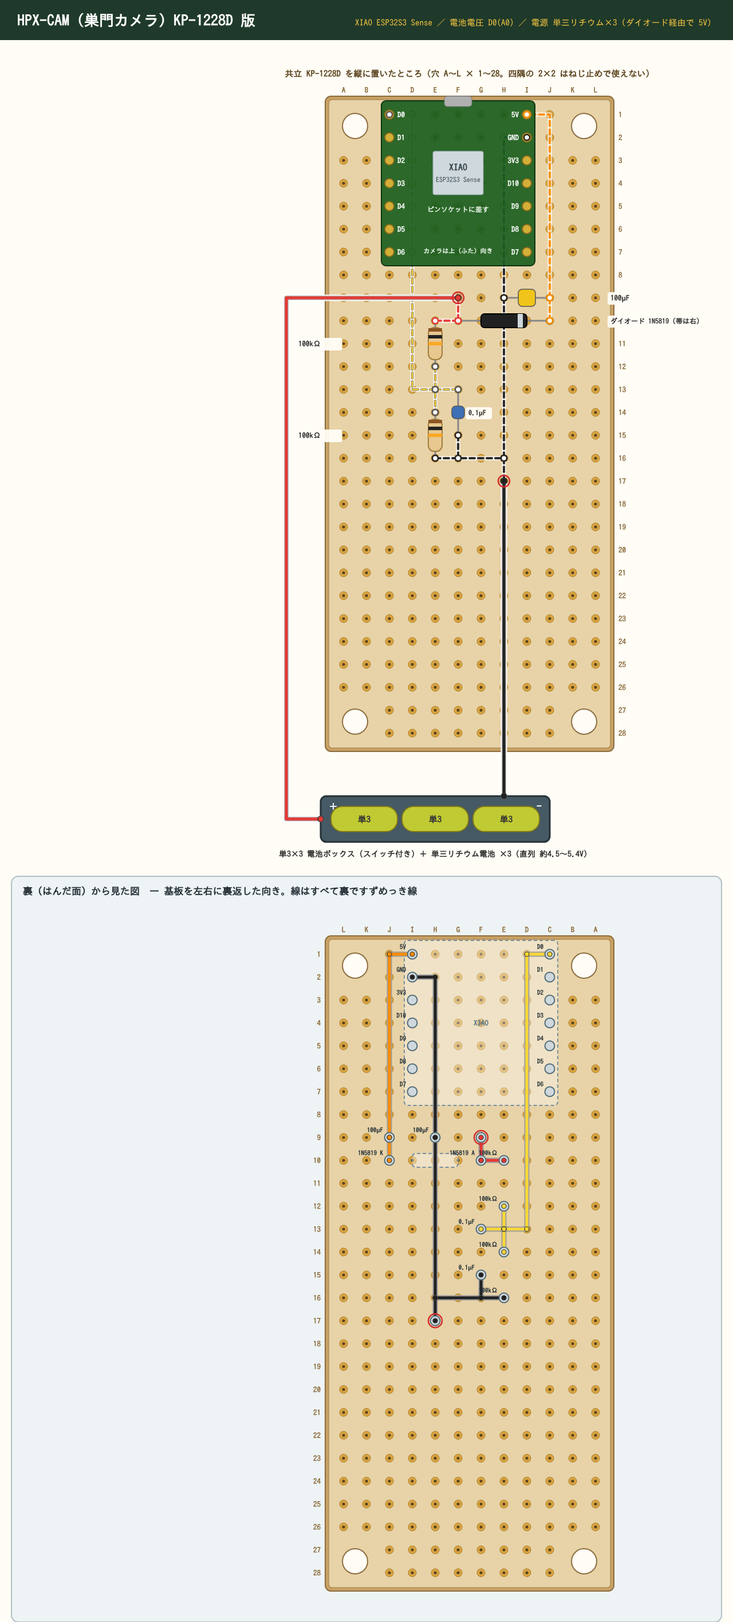
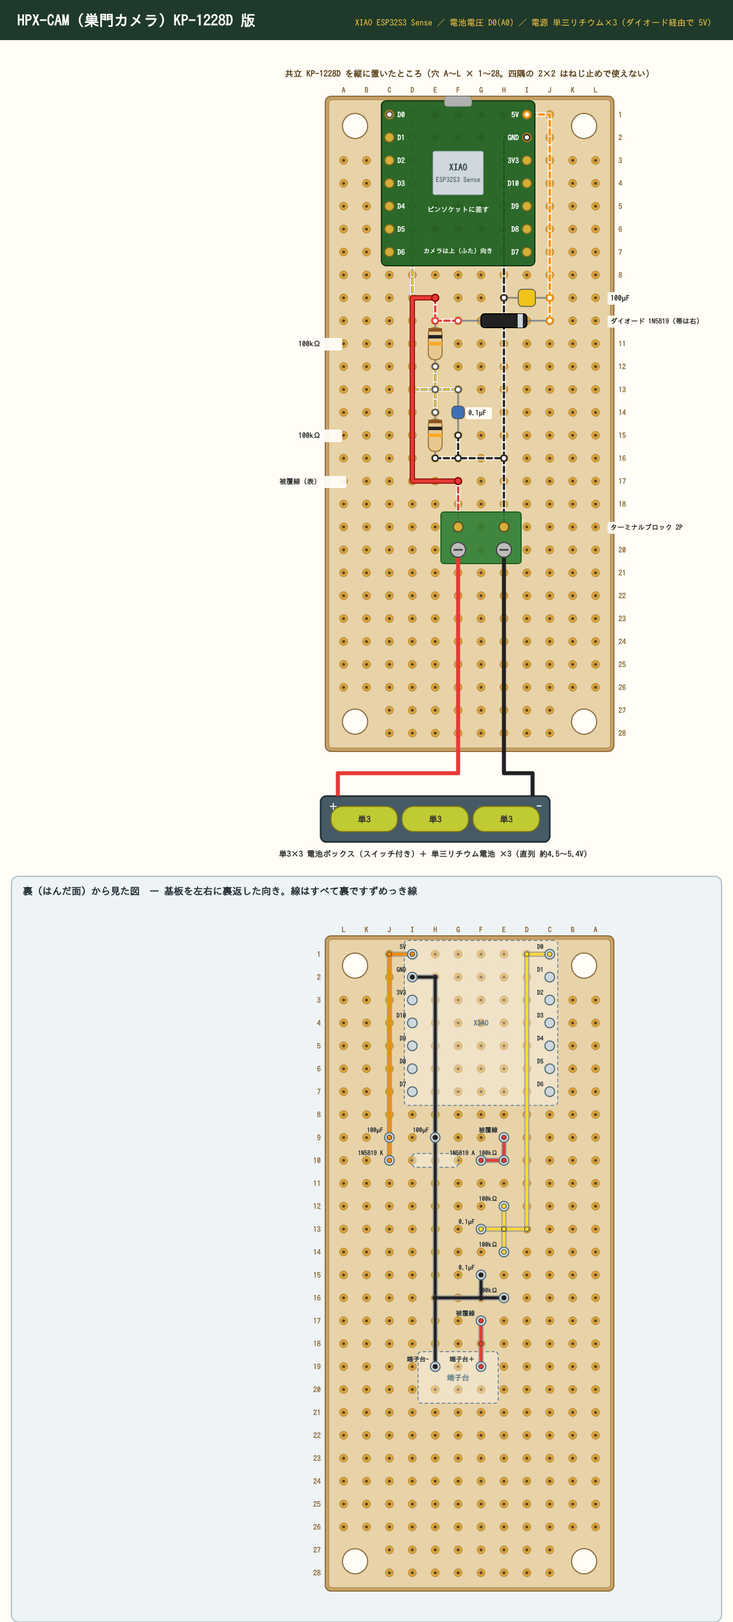
HPX-CAM: 電池をターミナルブロック 2P (F19・H19) につなぎ、＋は表の被覆線 E9→D9→D17→F17 で渡す (TARO 指定)
Claude-Session: https://claude.ai/code/session_01LCC9B3VoVWL7WDxMCJTnsZ

diff --git a/site/device-cam.html b/site/device-cam.html
@@ -229,6 +229,7 @@
         <tr><td class="part"><b><a href="https://akizukidenshi.com/catalog/g/g102243/" target="_blank" rel="noopener">コンデンサー100μF</a></b><span>絶縁ラジアルリード型積層セラミックコンデンサー 100μF6.3V 5mm</span><span class="price">280円 / 10個入り</span></td><td class="shop">秋月電子通商</td><td class="n" data-v="数">1</td></tr>
         <tr><td class="part"><b><a href="https://akizukidenshi.com/catalog/g/g105779/" target="_blank" rel="noopener">ピンソケット（メス）</a></b><span>分割ロングピンソケット 1×42 (42P)</span><span class="price">80円 / 42PIN</span></td><td class="shop">秋月電子通商</td><td class="n" data-v="数">7PIN×2</td></tr>
         <tr><td class="part"><b><a href="https://www.amazon.co.jp/s?k=%E3%82%B9%E3%82%BA%E3%83%A1%E3%83%83%E3%82%AD%E7%B7%9A%20TCW%200.5mm%2010m" target="_blank" rel="noopener">ジャンパー線</a></b><span>スズメッキ軟銅線 TCW 0.5mm 10m</span><span class="price">670円 / 10m</span></td><td class="shop">amazon</td><td class="n" data-v="数">適宜</td></tr>
+        <tr><td class="part"><b><a href="https://akizukidenshi.com/catalog/g/g115684/" target="_blank" rel="noopener">ターミナルブロック 2P</a></b><span>ターミナルブロック 2P 緑</span><span class="price">20円</span></td><td class="shop">秋月電子通商</td><td class="n" data-v="数">1</td></tr>
         <tr class="cat"><th colspan="3">電源</th></tr>
         <tr><td class="part"><b><a href="https://akizukidenshi.com/catalog/g/g102666/" target="_blank" rel="noopener">電池ボックス 単3×3本</a></b><span>電池ボックス 単3×3本 リード線・フタ・スイッチ付</span><span class="price">160円</span></td><td class="shop">秋月電子通商</td><td class="n" data-v="数">1</td></tr>
         <tr><td class="part"><b><a href="https://www.amazon.co.jp/dp/B006QVALTM" target="_blank" rel="noopener">単三リチウム電池</a></b><span>エナジャイザー リチウム乾電池 単3形 4本入り</span><span class="price">1,283円 / 4本入り</span></td><td class="shop">amazon</td><td class="n" data-v="数">3</td></tr>
@@ -237,7 +238,7 @@
 例えば：LAZOS microSD メモリーカード 8GB</span><span class="price">780円</span></td><td class="shop">amazon</td><td class="n" data-v="数">1</td></tr>
         <tr><td class="part"><b>乾燥剤</b><span>乾燥剤 (小袋、くもり止め)</span></td><td class="shop">—</td><td class="n" data-v="数">適宜</td></tr>
         </tbody>
-        <tfoot><tr><td class="part">部品代の目安 (1台分)</td><td class="shop"></td><td class="n" data-v="数">約 7,312円</td></tr></tfoot>
+        <tfoot><tr><td class="part">部品代の目安 (1台分)</td><td class="shop"></td><td class="n" data-v="数">約 7,332円</td></tr></tfoot>
       </table>
       <div class="extra"><h3>その他</h3><p>※試作中です。ファームウェアは準備中です。写真を送るには、蜂場に Wi-Fi の親機 (ルーターやアクセスポイント) が必要です。近い巣門にピントを合わせたいときは、別売の OV5640 カメラ (自動ピント) に付け替えられます。</p></div>
     </div>
@@ -253,13 +254,13 @@
       </figure>
       <div class="wtab"><h3>つなぐ線（穴の位置は 列の文字＋行の数字）</h3><div class="scroll"><table>
         <thead><tr><th>線</th><th>どこから（穴）</th><th>どこへ（穴）</th><th>役目</th></tr></thead>
-        <tbody><tr><td class="wc"><span class="sw" style="background:#e53935"></span>赤</td><td>電池ボックスの＋（F9 に直接はんだ付け）</td><td>F9 → F10（ダイオードのアノード）→ E10（上の 100kΩ）</td><td>電池＋</td></tr><tr><td class="wc"><span class="sw" style="background:#fb8c00"></span>橙</td><td>ダイオードのカソード（J10）</td><td>J10 → J9（100µF）→ J1 → I1（XIAO 5V）</td><td>ダイオードを通った電池を 5V 端子へ</td></tr><tr><td class="wc"><span class="sw" style="background:#fdd835"></span>黄</td><td>100kΩ と 100kΩ の間（E12・E14）</td><td>E12 → E13 → E14、E13 → F13（0.1µF）、E13 → D13 → D1 → C1（XIAO D0、XIAO の下）</td><td>電池の電圧を半分にして読む点</td></tr><tr><td class="wc"><span class="sw" style="background:#212121"></span>黒</td><td>XIAO GND（I2）</td><td>I2 → H2 → H9（100µF、XIAO の下）→ H16 → H17</td><td>−の列</td></tr><tr><td class="wc"><span class="sw" style="background:#212121"></span>黒</td><td>下の 100kΩ（E16）・0.1µF（F15）</td><td>E16 → F16 → H16、F15 → F16</td><td>−の列へ</td></tr><tr><td class="wc"><span class="sw" style="background:#212121"></span>黒</td><td>電池ボックスの−（H17 に直接はんだ付け）</td><td>H17</td><td>電池−</td></tr></tbody>
+        <tbody><tr><td class="wc"><span class="sw" style="background:#e53935"></span>赤</td><td>端子台の＋（F19）</td><td>F19 → F18 → F17（被覆線の下の端）</td><td>電池＋</td></tr><tr><td class="wc"><span class="sw" style="background:#e53935"></span>赤</td><td>表の被覆ジャンパー線</td><td>F17 → D17 → D9 → E9（表を這わせる。足は F17 と E9 だけ）</td><td>電池＋を上へ（裏の線をまたぐため表を通す）</td></tr><tr><td class="wc"><span class="sw" style="background:#e53935"></span>赤</td><td>被覆線の上の端（E9）</td><td>E9 → E10（上の 100kΩ）、F10（ダイオードのアノード）→ E10</td><td>電池＋</td></tr><tr><td class="wc"><span class="sw" style="background:#fb8c00"></span>橙</td><td>ダイオードのカソード（J10）</td><td>J10 → J9（100µF）→ J1 → I1（XIAO 5V）</td><td>ダイオードを通った電池を 5V 端子へ</td></tr><tr><td class="wc"><span class="sw" style="background:#fdd835"></span>黄</td><td>100kΩ と 100kΩ の間（E12・E14）</td><td>E12 → E13 → E14、E13 → F13（0.1µF）、E13 → D13 → D1 → C1（XIAO D0、XIAO の下）</td><td>電池の電圧を半分にして読む点</td></tr><tr><td class="wc"><span class="sw" style="background:#212121"></span>黒</td><td>XIAO GND（I2）</td><td>I2 → H2 → H9（100µF、XIAO の下）→ H16 → H19（端子台の−）</td><td>−の列</td></tr><tr><td class="wc"><span class="sw" style="background:#212121"></span>黒</td><td>下の 100kΩ（E16）・0.1µF（F15）</td><td>E16 → F16 → H16、F15 → F16</td><td>−の列へ</td></tr></tbody>
       </table></div></div>
       <div class="wtab"><h3>部品の置き場所</h3><div class="scroll"><table>
         <thead><tr><th>部品</th><th>数</th><th>置き場所・メモ</th></tr></thead>
-        <tbody><tr><td>Seeed Studio XIAO ESP32S3 Sense（カメラ OV3660・microSD 枠付き。付属の外付けアンテナを付ける）</td><td>1</td><td>C1〜I7 のソケットに差す。USB-C を上（基板の外）に向ける</td></tr><tr><td>ピンヘッダ 7ピン×2（XIAO 付属）＋ 分割ロングピンソケット 7ピン×2（基板側）</td><td>1組</td><td>C1〜C7・I1〜I7</td></tr><tr><td>（交換用・任意）OV5640 カメラ（XIAO ESP32S3 Sense 用、自動ピント）</td><td>1</td><td>近い巣門にピントを合わせたいとき。カメラの差し込み口で付け替える</td></tr><tr><td>microSD カード 32GB 以下（FAT32。例: LAZOS 8GB）</td><td>1</td><td>Sense 基板の枠に差す。写真をためる</td></tr><tr><td>ショットキーバリアダイオード 40V1A 1N5819</td><td>1</td><td>F10（アノード）〜J10（カソード、帯の側）。寝かせて付ける</td></tr><tr><td>金属皮膜抵抗 100kΩ 1%</td><td>2</td><td>E10〜E12、E14〜E16（縦に寝かせて付ける）</td></tr><tr><td>積層セラミックコンデンサー 0.1µF 50V C0G 5mm</td><td>1</td><td>F13・F15（測る点のノイズよけ）</td></tr><tr><td>絶縁ラジアルリード型積層セラミックコンデンサー 100µF 6.3V 5mm</td><td>1</td><td>H9・J9（Wi-Fi で送る瞬間の電圧の下がりよけ）</td></tr><tr><td>単3×3 電池ボックス（リード線・フタ・スイッチ付）／ 単三リチウム電池</td><td>1／3</td><td>＋の線を F9、−の線を H17 にはんだ付け</td></tr><tr><td>ユニバーサル基板 共立プロダクツ KP-1228D（穴 12×28、2.54mm。モノタロウ 159円）・すずめっき線</td><td>1</td><td>縦に置く。四隅の 2×2 はねじ止めで使わない</td></tr><tr><td>ケース タカチ BCAP091207T（透明ふた、内寸 66×96×56.6mm）</td><td>1</td><td>カメラをふたに近づける</td></tr><tr><td>ポール取付金具 タカチ SSK-S1</td><td>1</td><td>ケースを杭やポールに留める</td></tr><tr><td>屋外用ルーフ タカチ BRF-90G</td><td>1</td><td>ケースの上に付ける雨・日よけ（中が熱くなりにくい）</td></tr><tr><td>乾燥剤（小袋）</td><td>少し</td><td>くもり止め</td></tr></tbody>
+        <tbody><tr><td>Seeed Studio XIAO ESP32S3 Sense（カメラ OV3660・microSD 枠付き。付属の外付けアンテナを付ける）</td><td>1</td><td>C1〜I7 のソケットに差す。USB-C を上（基板の外）に向ける</td></tr><tr><td>ピンヘッダ 7ピン×2（XIAO 付属）＋ 分割ロングピンソケット 7ピン×2（基板側）</td><td>1組</td><td>C1〜C7・I1〜I7</td></tr><tr><td>（交換用・任意）OV5640 カメラ（XIAO ESP32S3 Sense 用、自動ピント）</td><td>1</td><td>近い巣門にピントを合わせたいとき。カメラの差し込み口で付け替える</td></tr><tr><td>microSD カード 32GB 以下（FAT32。例: LAZOS 8GB）</td><td>1</td><td>Sense 基板の枠に差す。写真をためる</td></tr><tr><td>ショットキーバリアダイオード 40V1A 1N5819</td><td>1</td><td>F10（アノード）〜J10（カソード、帯の側）。寝かせて付ける</td></tr><tr><td>金属皮膜抵抗 100kΩ 1%</td><td>2</td><td>E10〜E12、E14〜E16（縦に寝かせて付ける）</td></tr><tr><td>積層セラミックコンデンサー 0.1µF 50V C0G 5mm</td><td>1</td><td>F13・F15（測る点のノイズよけ）</td></tr><tr><td>絶縁ラジアルリード型積層セラミックコンデンサー 100µF 6.3V 5mm</td><td>1</td><td>H9・J9（Wi-Fi で送る瞬間の電圧の下がりよけ）</td></tr><tr><td>ターミナルブロック 2P 緑（5.08mm、秋月電子 20円）</td><td>1</td><td>F19（電池＋）・H19（電池−）。線を入れる口を下に向ける</td></tr><tr><td>被覆線（ジャンパー線）</td><td>少し</td><td>表で E9 → D9 → D17 → F17 と這わせる</td></tr><tr><td>単3×3 電池ボックス（リード線・フタ・スイッチ付）／ 単三リチウム電池</td><td>1／3</td><td>＋の線を端子台の F19、−の線を H19 にねじで留める</td></tr><tr><td>ユニバーサル基板 共立プロダクツ KP-1228D（穴 12×28、2.54mm。モノタロウ 159円）・すずめっき線</td><td>1</td><td>縦に置く。四隅の 2×2 はねじ止めで使わない</td></tr><tr><td>ケース タカチ BCAP091207T（透明ふた、内寸 66×96×56.6mm）</td><td>1</td><td>カメラをふたに近づける</td></tr><tr><td>ポール取付金具 タカチ SSK-S1</td><td>1</td><td>ケースを杭やポールに留める</td></tr><tr><td>屋外用ルーフ タカチ BRF-90G</td><td>1</td><td>ケースの上に付ける雨・日よけ（中が熱くなりにくい）</td></tr><tr><td>乾燥剤（小袋）</td><td>少し</td><td>くもり止め</td></tr></tbody>
       </table></div></div>
-      <div class="wnote"><h3>注意</h3><ul><li>上の図は部品を載せる面（表）から見たところ。部品はすべて表から差し、足を裏ではんだ付けする。線はすべて裏のすずめっき線。</li><li>下の「裏から見た図」が実際に配線する向き（左右が逆）。裏の線どうしは交わらない。</li><li>XIAO は一番上（1〜7 行）。USB-C は基板の上の端からはみ出す。D0 への線（D 列）と GND の線（H 列）は XIAO の下（裏）を通す。</li><li>D 列の線は XIAO のピン（C 列）のすぐとなりを通るので、はんだがピンの穴とくっつかないように気をつける。</li><li>電池は ダイオード 1N5819 を通して XIAO の「5V」端子へ入れる（USB をつないだとき、USB の 5V が電池へ流れ込まないように）。</li><li>XIAO 裏の「BAT」パッドは充電式リチウムイオン電池用。乾電池は絶対につながない。</li><li>電池の電圧は ダイオードの前で 100kΩ・100kΩ で半分にして D0(A0) で読む（新品 5.4V で 2.7V）。</li><li>18〜26 行は空いている。KP-1228D の穴の数は商品写真から数えた（12×28）。差す前に実物で確かめる。</li><li>まだ組んで確かめていない。</li></ul></div>
+      <div class="wnote"><h3>注意</h3><ul><li>上の図は部品を載せる面（表）から見たところ。部品はすべて表から差し、足を裏ではんだ付けする。線はすべて裏のすずめっき線。</li><li>下の「裏から見た図」が実際に配線する向き（左右が逆）。裏の線どうしは交わらない。</li><li>XIAO は一番上（1〜7 行）。USB-C は基板の上の端からはみ出す。D0 への線（D 列）と GND の線（H 列）は XIAO の下（裏）を通す。</li><li>D 列の線は XIAO のピン（C 列）のすぐとなりを通るので、はんだがピンの穴とくっつかないように気をつける。</li><li>電池は ダイオード 1N5819 を通して XIAO の「5V」端子へ入れる（USB をつないだとき、USB の 5V が電池へ流れ込まないように）。</li><li>XIAO 裏の「BAT」パッドは充電式リチウムイオン電池用。乾電池は絶対につながない。</li><li>電池の電圧は ダイオードの前で 100kΩ・100kΩ で半分にして D0(A0) で読む（新品 5.4V で 2.7V）。</li><li>電池＋は端子台 F19 から裏で F17 へ上がり、表の被覆線で E9 へ渡る（裏の黒・黄の線をまたぐため）。被覆線の足は E9 と F17 だけで、D9・D17 では曲げるだけ。</li><li>20〜26 行は空いている。KP-1228D の穴の数は商品写真から数えた（12×28）。差す前に実物で確かめる。</li><li>まだ組んで確かめていない。</li></ul></div>
       <div class="soonbox">組み立ての手順は、準備ができしだい掲載します。</div>
       <a class="back" href="devices.html">機器の一覧へ戻る</a>
     </div>

diff --git a/hardware/wiring/gen_pcb.py b/hardware/wiring/gen_pcb.py
@@ -1557,8 +1557,10 @@ tag(H(Lc("F"), 0)[0] + 18, H(0, R(14))[1] + 5, "0.1µF", 12, "start", w=46)
 cap_flat(s, hole("H9"), hole("J9"), "100µF", True)
 tag(H(Lc("L"), 0)[0] + 26, H(0, R(9))[1] + 5, "100µF", w=52)
 
-w("red",    "F9", "F10")                           # 電池＋（F9）→ ダイオードのアノード
-w("red",    "F10", "E10")                          # → 上の 100kΩ
+# TARO 2026-11-22: 電池は端子台 (F19＝＋、H19＝−) から。＋は F17 → 表の被覆線 (E9) → E10
+w("red",    "F19", "F18", "F17")                   # 端子台＋ → 被覆線の下の端（F17）
+w("red",    "E9", "E10")                           # 被覆線の上の端（E9）→ 上の 100kΩ
+w("red",    "F10", "E10")                          # ダイオードのアノード → 上の 100kΩ
 w("orange", "J10", "J9")                           # ダイオードのカソード → 100µF
 w("orange", "J9", "J1", "I1")                      # → XIAO 5V（J 列を上へ）
 w("yellow", "E12", "E13", "E14")                   # 100kΩ と 100kΩ の間（測る点）
@@ -1568,9 +1570,32 @@ w("black",  "I2", "H2", "H9")                      # XIAO GND → XIAO の下を
 w("black",  "H9", "H16")                           # −の列（H10 はダイオードの下の穴）
 w("black",  "F15", "F16")                          # 0.1µF の下
 w("black",  "E16", "F16", "H16")                   # 下の 100kΩ → −の列
-w("black",  "H16", "H17")                          # 電池−（H17）
+w("black",  "H16", "H19")                          # → 端子台−（H19）
 
-# 電池ボックス（単3×3、スイッチ付き）。＋の線を F9、−の線を H17 に直接はんだ付け
+# 表の被覆ジャンパー線（E9 → D9 → D17 → F17 と曲げて這わせる。足は E9 と F17 だけ）
+jp = [H(*hole(h)) for h in ("E9", "D9", "D17", "F17")]
+for x, y in (jp[0], jp[-1]):
+    rec_pin(x, y, "被覆線")
+d_ = "M" + " L".join(f"{x},{y}" for x, y in jp)
+s.top.append(f'<path d="{d_}" fill="none" stroke="#7f0000" stroke-width="9" stroke-linejoin="round"/>')
+s.top.append(f'<path d="{d_}" fill="none" stroke="#e53935" stroke-width="6" stroke-linejoin="round"/>')
+for x, y in (jp[0], jp[-1]):
+    s.top.append(f'<circle cx="{x}" cy="{y}" r="6" fill="#e53935" stroke="#7f0000" stroke-width="2"/>')
+tag(OX - 40, H(0, R(17))[1] + 5, "被覆線（表）", 12, "end", w=90)
+
+# ターミナルブロック 2P（5.08mm）。F19＝電池＋、H19＝電池−。線を入れる口は下向き
+x1, y1 = H(*hole("F19")); x2, _ = H(*hole("H19"))
+s.top.append(f'<rect x="{x1-30}" y="{y1-26}" width="{x2-x1+60}" height="{P+50}" rx="5" fill="#2e7d32" fill-opacity="0.9" stroke="#1b5e20" stroke-width="2"/>')
+rec_part(x1 - 30, y1 - 26, x2 - x1 + 60, P + 50, "端子台")
+for h_, n_ in (("F19", "＋"), ("H19", "−")):
+    x, y = H(*hole(h_))
+    rec_pin(x, y, "端子台" + n_)
+    s.top.append(f'<circle cx="{x}" cy="{y}" r="8.5" fill="#d4af37" stroke="#5d4520" stroke-width="2"/>')
+    s.top.append(f'<circle cx="{x}" cy="{y+P}" r="13" fill="#bdbdbd" stroke="#424242" stroke-width="2"/>')
+    s.top.append(f'<line x1="{x-8}" y1="{y+P}" x2="{x+8}" y2="{y+P}" stroke="#424242" stroke-width="3"/>')
+tag(H(Lc("L"), 0)[0] + 26, y1 + 5, "ターミナルブロック 2P", 12, "start", w=150)
+
+# 電池ボックス（単3×3、スイッチ付き）。＋の線を F19、−の線を H19 の端子台へ
 bx, by = OX - 40, OY + 27 * P + 110
 s.rect(bx, by, 400, 80, "#455a64", "#263238", 10, 3)
 for i in range(3):
@@ -1579,20 +1604,20 @@ for i in range(3):
 s.text(bx + 14, by + 24, "＋", 16, "start", "bold", "#fff")
 s.text(bx + 386, by + 24, "−", 18, "end", "bold", "#fff")
 s.text(bx + 200, by + 106, "単3×3 電池ボックス（スイッチ付き）＋ 単三リチウム電池 ×3（直列 約4.5〜5.4V）", 14, "middle", "bold")
-ta, tl = H(*hole("F9")), H(*hole("H17"))
-s.wire([(bx, by + 40), (bx - 60, by + 40), (bx - 60, ta[1]), ta], "red")
-s.wire([(tl[0], by), tl], "black")
-solder_mark(s, *hole("F9")); solder_mark(s, *hole("H17"))
+ta, tl = H(*hole("F19")), H(*hole("H19"))
+s.top.append(f'<path d="M{bx+30},{by} L{bx+30},{by-40} L{ta[0]},{by-40} L{ta[0]},{ta[1]+P+14}" fill="none" stroke="#e53935" stroke-width="7" stroke-linejoin="round"/>')
+s.top.append(f'<path d="M{bx+370},{by} L{bx+370},{by-40} L{tl[0]},{by-40} L{tl[0]},{tl[1]+P+14}" fill="none" stroke="#212121" stroke-width="7" stroke-linejoin="round"/>')
 
 yb = back_section(s, by + 140, "HPX-CAM_KP1228D_pcb.svg")
 y = table(s, 60, yb + 40, [
     ["線", "どこから（穴）", "どこへ（穴）", "役目"],
-    ["red", "電池ボックスの＋（F9 に直接はんだ付け）", "F9 → F10（ダイオードのアノード）→ E10（上の 100kΩ）", "電池＋"],
+    ["red", "端子台の＋（F19）", "F19 → F18 → F17（被覆線の下の端）", "電池＋"],
+    ["red", "表の被覆ジャンパー線", "F17 → D17 → D9 → E9（表を這わせる。足は F17 と E9 だけ）", "電池＋を上へ（裏の線をまたぐため表を通す）"],
+    ["red", "被覆線の上の端（E9）", "E9 → E10（上の 100kΩ）、F10（ダイオードのアノード）→ E10", "電池＋"],
     ["orange", "ダイオードのカソード（J10）", "J10 → J9（100µF）→ J1 → I1（XIAO 5V）", "ダイオードを通った電池を 5V 端子へ"],
     ["yellow", "100kΩ と 100kΩ の間（E12・E14）", "E12 → E13 → E14、E13 → F13（0.1µF）、E13 → D13 → D1 → C1（XIAO D0、XIAO の下）", "電池の電圧を半分にして読む点"],
-    ["black", "XIAO GND（I2）", "I2 → H2 → H9（100µF、XIAO の下）→ H16 → H17", "−の列"],
+    ["black", "XIAO GND（I2）", "I2 → H2 → H9（100µF、XIAO の下）→ H16 → H19（端子台の−）", "−の列"],
     ["black", "下の 100kΩ（E16）・0.1µF（F15）", "E16 → F16 → H16、F15 → F16", "−の列へ"],
-    ["black", "電池ボックスの−（H17 に直接はんだ付け）", "H17", "電池−"],
 ], [100, 320, 440, 300], "つなぐ線（穴の位置は 列の文字＋行の数字）")
 y = table(s, 60, y + 50, [
     ["部品", "数", "置き場所・メモ"],
@@ -1604,7 +1629,9 @@ y = table(s, 60, y + 50, [
     ["金属皮膜抵抗 100kΩ 1%", "2", "E10〜E12、E14〜E16（縦に寝かせて付ける）"],
     ["積層セラミックコンデンサー 0.1µF 50V C0G 5mm", "1", "F13・F15（測る点のノイズよけ）"],
     ["絶縁ラジアルリード型積層セラミックコンデンサー 100µF 6.3V 5mm", "1", "H9・J9（Wi-Fi で送る瞬間の電圧の下がりよけ）"],
-    ["単3×3 電池ボックス（リード線・フタ・スイッチ付）／ 単三リチウム電池", "1／3", "＋の線を F9、−の線を H17 にはんだ付け"],
+    ["ターミナルブロック 2P 緑（5.08mm、秋月電子 20円）", "1", "F19（電池＋）・H19（電池−）。線を入れる口を下に向ける"],
+    ["被覆線（ジャンパー線）", "少し", "表で E9 → D9 → D17 → F17 と這わせる"],
+    ["単3×3 電池ボックス（リード線・フタ・スイッチ付）／ 単三リチウム電池", "1／3", "＋の線を端子台の F19、−の線を H19 にねじで留める"],
     ["ユニバーサル基板 共立プロダクツ KP-1228D（穴 12×28、2.54mm。モノタロウ 159円）・すずめっき線", "1", "縦に置く。四隅の 2×2 はねじ止めで使わない"],
     ["ケース タカチ BCAP091207T（透明ふた、内寸 66×96×56.6mm）", "1", "カメラをふたに近づける"],
     ["ポール取付金具 タカチ SSK-S1", "1", "ケースを杭やポールに留める"],
@@ -1619,7 +1646,8 @@ finish(s, y, [
     "・電池は ダイオード 1N5819 を通して XIAO の「5V」端子へ入れる（USB をつないだとき、USB の 5V が電池へ流れ込まないように）。",
     "・XIAO 裏の「BAT」パッドは充電式リチウムイオン電池用。乾電池は絶対につながない。",
     "・電池の電圧は ダイオードの前で 100kΩ・100kΩ で半分にして D0(A0) で読む（新品 5.4V で 2.7V）。",
-    "・18〜26 行は空いている。KP-1228D の穴の数は商品写真から数えた（12×28）。差す前に実物で確かめる。",
+    "・電池＋は端子台 F19 から裏で F17 へ上がり、表の被覆線で E9 へ渡る（裏の黒・黄の線をまたぐため）。被覆線の足は E9 と F17 だけで、D9・D17 では曲げるだけ。",
+    "・20〜26 行は空いている。KP-1228D の穴の数は商品写真から数えた（12×28）。差す前に実物で確かめる。",
     "・まだ組んで確かめていない。",
 ], "HPX-CAM_KP1228D_pcb.svg")
 

diff --git a/hardware/parts/gen_device_pages.py b/hardware/parts/gen_device_pages.py
@@ -125,7 +125,7 @@ DEVICES = [
          order=['XIAO ESP32S3 Sense',
                 '防水・防塵開閉式プラボックス BCAPシリーズ', '屋外用ルーフ BRFシリーズ', 'ポール取付金具 SSKシリーズ',
                 'ユニバーサル基板 KP-1228D', 'ショットキーバリアダイオード', '抵抗 100kΩ', 'コンデンサー0.1μF',
-                'コンデンサー100μF', 'ピンソケット（メス）', 'ジャンパー線',
+                'コンデンサー100μF', 'ピンソケット（メス）', 'ジャンパー線', 'ターミナルブロック 2P',
                 '電池ボックス 単3×3本', '単三リチウム電池', 'microSDカード', '乾燥剤'],
          # TARO 2026-11-22: 基板を共立 KP-1228D (縦置き、XIAO を一番上) に変え、図も差し替え
          wiring=[('HPX-CAM_KP1228D_pcb.png', '配線図', '共立プロダクツのユニバーサル基板 KP-1228D (穴 12×28) を縦に置き、一番上に XIAO ESP32S3 Sense を差して、その下にダイオード・抵抗・コンデンサーを並べる図です (表と裏、線はすべて裏。四隅の 2×2 はねじ止めに使うので穴を使いません)。単三リチウム3本の電気をダイオードを通して XIAO の 5V 端子へ入れ、電池の電圧を D0 で読みます。ケースは透明ふたの BCAP091207T で、カメラをふたのすぐ下に置きます。')],
